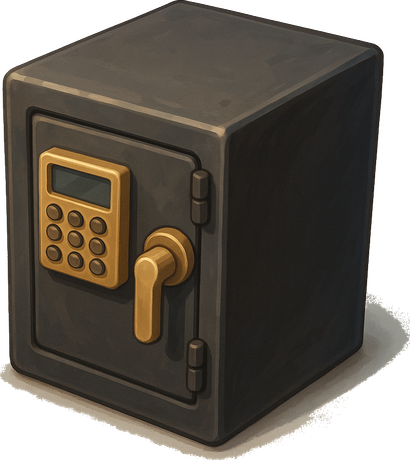
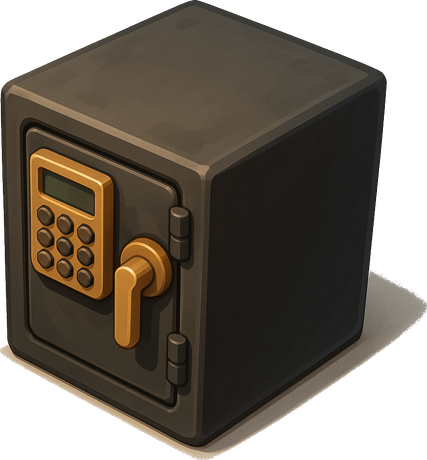
Drag-and-drop building moves; safes rotated to the house's angle
Michael: press-and-hold to move buildings, only the house immovable, safes
need one more turn.

Hold ~0.4s lifts a building with a haptic pop; valid cells glow green; drop
moves it. The Print Shop stopped being a fixed virtual pad and became a
stored position (profiles.print_shop_pad) so it can move too; raids render
the defender's shop wherever they parked it. Moves are free (arranging your
base is expression, not a purchase) but serialized per player via an
advisory-locked house_move, so two devices can't land on one cell.

Gesture coexistence on one surface: a >12px slide before the hold fires
cancels it (that's a pan); native scroll during a drag is suppressed by a
flag-guarded touchmove preventDefault since CSS touch-action can't change
mid-gesture; a 350ms post-drop guard swallows the synthesized click that
would otherwise open the sheet of the building just dropped.

Safes: round 1 landed ~15-20deg vs the house's ~35deg - exactly Michael's
'not quite even'. Round 2 asks the edit model for the steeper turn
explicitly; fronts foreshorten and tops read as diamonds now.

diff --git a/components/IsoYard.tsx b/components/IsoYard.tsx
@@ -49,10 +49,26 @@ export interface IsoCellSpec {
   glow?: boolean
   dead?: boolean
   onTap?: () => void
+  /** press-and-hold lifts this sprite for drag-and-drop */
+  movable?: boolean
 }
 
-export default function IsoYard({ cells, bg, children }:
-  { cells: IsoCellSpec[]; bg?: string; children?: ReactNode }) {
+/** stage coords → pad index, or null when off the diamond */
+export function padAt(x: number, y: number): number | null {
+  const u = (x - ORIGIN_X) / (TILE_W / 2)
+  const v = (y - ORIGIN_Y) / (TILE_H / 2)
+  const col = Math.round((u + v) / 2 - 0.5)
+  const row = Math.round((v - u) / 2 - 0.5)
+  if (col < 0 || col >= GRID || row < 0 || row >= GRID) return null
+  return row * GRID + col
+}
+
+export default function IsoYard({ cells, bg, children, onMove, validTargets }:
+  { cells: IsoCellSpec[]; bg?: string; children?: ReactNode
+    /** called after a successful drag-and-drop */
+    onMove?: (fromPad: number, toPad: number) => void
+    /** cells a lifted building may land on */
+    validTargets?: Set<number> }) {
   const wrapRef = useRef<HTMLDivElement>(null)
   const [auto, setAuto] = useState(1)       // fit-derived base scale
   const [zoom, setZoom] = useState(1)       // player zoom on top of it
@@ -130,6 +146,81 @@ export default function IsoYard({ cells, bg, children }:
     }
   }, [])
 
+  // ── DRAG-AND-DROP (Michael 2026-07-31): press-and-hold lifts a movable
+  // sprite, drag follows the finger, drop on a highlighted cell. Native
+  // scrolling is suppressed for the duration via a flag-guarded touchmove
+  // preventDefault — CSS touch-action can't change mid-gesture. ──
+  const [drag, setDrag] = useState<{ from: number; x: number; y: number; hover: number | null } | null>(null)
+  const dragRef = useRef<typeof drag>(null)
+  dragRef.current = drag
+  const holdRef = useRef<{ pad: number; x: number; y: number; timer: ReturnType<typeof setTimeout> } | null>(null)
+  const justDroppedAt = useRef(0)
+
+  const toStage = (clientX: number, clientY: number) => {
+    const el = wrapRef.current!
+    const r = el.getBoundingClientRect()
+    const s = auto * zoomRef.current
+    const spacerW = Math.max(STAGE_W * s, el.clientWidth)
+    const spacerH = Math.max(STAGE_H * s, el.clientHeight)
+    const offX = spacerW / 2 - (STAGE_W * s) / 2
+    const offY = spacerH / 2 - (STAGE_H * s) / 2
+    return {
+      x: (clientX - r.left + el.scrollLeft - offX) / s,
+      y: (clientY - r.top + el.scrollTop - offY) / s,
+    }
+  }
+
+  const beginHold = (pad: number, e: React.PointerEvent) => {
+    const { clientX, clientY } = e
+    const timer = setTimeout(() => {
+      if (!holdRef.current || holdRef.current.pad !== pad) return
+      const p = toStage(clientX, clientY)
+      setDrag({ from: pad, x: p.x, y: p.y, hover: null })
+      try { navigator.vibrate?.(30) } catch {}
+      holdRef.current = null
+    }, 420)
+    holdRef.current = { pad, x: clientX, y: clientY, timer }
+  }
+  const cancelHold = () => {
+    if (holdRef.current) { clearTimeout(holdRef.current.timer); holdRef.current = null }
+  }
+
+  useEffect(() => {
+    const el = wrapRef.current
+    if (!el) return
+    const onMoveEv = (e: PointerEvent) => {
+      // a real finger slide before the hold fires = the user is panning
+      if (holdRef.current && Math.hypot(e.clientX - holdRef.current.x, e.clientY - holdRef.current.y) > 12) cancelHold()
+      const d = dragRef.current
+      if (!d) return
+      const p = toStage(e.clientX, e.clientY)
+      setDrag({ ...d, x: p.x, y: p.y, hover: padAt(p.x, p.y) })
+    }
+    const onUp = () => {
+      cancelHold()
+      const d = dragRef.current
+      if (!d) return
+      if (d.hover != null && d.hover !== d.from && (validTargets?.has(d.hover) ?? false)) {
+        justDroppedAt.current = Date.now()
+        onMove?.(d.from, d.hover)
+      }
+      setDrag(null)
+    }
+    // suppress native pan while a building is in the air
+    const onTouchMove = (e: TouchEvent) => { if (dragRef.current) e.preventDefault() }
+    window.addEventListener('pointermove', onMoveEv)
+    window.addEventListener('pointerup', onUp)
+    window.addEventListener('pointercancel', onUp)
+    el.addEventListener('touchmove', onTouchMove, { passive: false })
+    return () => {
+      window.removeEventListener('pointermove', onMoveEv)
+      window.removeEventListener('pointerup', onUp)
+      window.removeEventListener('pointercancel', onUp)
+      el.removeEventListener('touchmove', onTouchMove)
+    }
+    // eslint-disable-next-line react-hooks/exhaustive-deps
+  }, [auto, onMove, validTargets])
+
   // center the pan when the FIT changes (first layout, rotation) — NOT on
   // player zoom, which anchors itself and must not be snapped back to center
   useEffect(() => {
@@ -172,8 +263,10 @@ export default function IsoYard({ cells, bg, children }:
                       style={{
                         transform: 'rotateX(0deg)',
                         clipPath: 'polygon(50% 0%, 100% 50%, 50% 100%, 0% 50%)',
-                        background: 'rgba(255,255,255,0.06)',
-                        borderColor: 'rgba(255,255,255,0.14)',
+                        background: drag && validTargets?.has(c.pad)
+                          ? (drag.hover === c.pad ? 'rgba(52,211,153,0.45)' : 'rgba(52,211,153,0.18)')
+                          : 'rgba(255,255,255,0.06)',
+                        borderColor: drag && validTargets?.has(c.pad) ? 'rgba(52,211,153,0.7)' : 'rgba(255,255,255,0.14)',
                       }} />
                   )}
                 </button>
@@ -191,13 +284,16 @@ export default function IsoYard({ cells, bg, children }:
               {c.img ? (
                 // eslint-disable-next-line @next/next/no-img-element
                 <img src={c.img} alt=""
-                  onClick={c.onTap}
+                  onClick={() => { if (Date.now() - justDroppedAt.current > 350) c.onTap?.() }}
+                  onPointerDown={c.movable && onMove ? (e => beginHold(c.pad, e)) : undefined}
                   className={`absolute max-w-none ${c.onTap ? 'cursor-pointer' : ''} ${c.dead ? 'grayscale opacity-40' : ''} ${c.glow ? 'iso-glow' : ''}`}
                   style={{
                     width: c.imgW ?? 120,
                     left: 0, top: TILE_H * 0.28,
                     transform: 'translate(-50%, -100%)',
+                    opacity: drag?.from === c.pad ? 0.25 : undefined,
                     filter: c.glow ? 'drop-shadow(0 0 14px rgba(52,211,153,0.9))' : 'drop-shadow(0 6px 8px rgba(0,0,0,0.35))',
+                    touchAction: c.movable && onMove ? 'none' : undefined,
                   }} />
               ) : c.emoji ? (
                 <span onClick={c.onTap}
@@ -215,6 +311,22 @@ export default function IsoYard({ cells, bg, children }:
             </div>
           )
         })}
+        {/* the airborne building follows the finger */}
+        {drag && (() => {
+          const src = cells.find(c => c.pad === drag.from)
+          if (!src?.img) return null
+          return (
+            // eslint-disable-next-line @next/next/no-img-element
+            <img src={src.img} alt="" className="absolute max-w-none pointer-events-none"
+              style={{
+                width: (src.imgW ?? 120) * 1.08,
+                left: drag.x, top: drag.y,
+                transform: 'translate(-50%, -85%)',
+                zIndex: 950,
+                filter: 'drop-shadow(0 14px 16px rgba(0,0,0,0.5)) brightness(1.08)',
+              }} />
+          )
+        })()}
         {children}
       </div>
       </div>

diff --git a/app/(game)/hq/page.tsx b/app/(game)/hq/page.tsx
@@ -24,6 +24,7 @@ interface Upgrade { to: number; done_at: string; rush_cost: number }
 interface Building { pad: number; type: string; level: number; upgrade?: Upgrade | null }
 interface Tower { level: number; banked: number; next_in_secs: number; rate: number; interval_hours: number }
 interface House {
+  print_shop_pad?: number
   hq_level: number; hq_upgrade: Upgrade | null
   buildings: Building[]; tower: Tower | null
   trophies: number; shield_until: string | null; pickups: number
@@ -169,10 +170,10 @@ export default function HqPage() {
       })
       continue
     }
-    if (pad === PRINT_SHOP_PAD) {
+    if (pad === (house?.print_shop_pad ?? PRINT_SHOP_PAD)) {
       const ready = (farm?.ready ?? 0) > 0
       cells.push({
-        pad, img: '/house/print_shop.png', imgW: 128,
+        pad, img: '/house/print_shop.png', imgW: 128, movable: true,
         glow: ready, onTap: ready ? claimFarm : undefined,
         chip: ready
           ? <span className="text-[11px] font-black px-1.5 py-0.5 rounded-md bg-amber-400 text-black animate-bounce">🧨 CLAIM {farm!.ready}</span>
@@ -186,7 +187,7 @@ export default function HqPage() {
       const banked = b.type === 'media_tower' ? (house?.tower?.banked ?? 0) : 0
       const stored = b.type === 'safe' ? (house?.safe?.stored ?? 0) : 0
       cells.push({
-        pad,
+        pad, movable: true,
         img: sp?.img(b.level), imgW: sp?.w, emoji: sp ? undefined : buildingDef(b.type)?.emoji,
         glow: banked > 0,
         onTap: () => setSheet({ pad, building: b }),
@@ -206,11 +207,31 @@ export default function HqPage() {
 
   const sparkles = SPARKLE_PADS.slice(0, house?.pickups ?? 0)
 
+  // every empty cell is a legal landing spot (not the house, not occupied)
+  const psPad = house?.print_shop_pad ?? PRINT_SHOP_PAD
+  const validTargets = new Set<number>()
+  for (let pad = 0; pad < 36; pad++) {
+    if (pad === HQ_PAD || pad === psPad || builtOn.has(pad)) continue
+    validTargets.add(pad)
+  }
+  async function moveBuilding(from: number, to: number) {
+    try {
+      const res = await fetch('/api/house', {
+        method: 'POST', headers: { 'Content-Type': 'application/json' },
+        body: JSON.stringify({ action: 'move', from_pad: from, to_pad: to }),
+      })
+      const d = await res.json()
+      if (!res.ok) say(`❌ ${d.error ?? 'Could not move'}`)
+      else { try { navigator.vibrate?.(15) } catch {} }
+    } catch { say('❌ Could not move') }
+    load()
+  }
+
   return (
     <div className="fixed inset-0 z-[60] bg-[#0d1512] text-gray-200 select-none">
       {/* the yard stops above the bottom nav — the bar stays (Michael) */}
       <div className="absolute inset-x-0 top-0" style={{ bottom: '4.5rem' }}>
-      <IsoYard cells={cells} bg="/house/yard_bg.png">
+      <IsoYard cells={cells} bg="/house/yard_bg.png" onMove={moveBuilding} validTargets={validTargets}>
         {/* sparkle pickups + their pops, in stage coordinates */}
         {sparkles.map(pad => {
           const { x, y, depth } = isoPos(pad)

diff --git a/app/api/house/route.ts b/app/api/house/route.ts
@@ -26,7 +26,7 @@ export async function GET() {
     await admin.rpc('house_settle', { p_profile_id: profile.id })
     // requireProfile's snapshot predates the settle - re-read what it changes
     const { data: fresh } = await admin.from('profiles')
-      .select('hq_level, hq_upgrading_to, hq_upgrade_done_at, house_trophies, house_shield_until, yard_swept_at, safe_fp')
+      .select('hq_level, hq_upgrading_to, hq_upgrade_done_at, house_trophies, house_shield_until, yard_swept_at, safe_fp, print_shop_pad')
       .eq('id', profile.id).single()
     const { data: buildings } = await admin
       .from('house_buildings')
@@ -46,6 +46,7 @@ export async function GET() {
       return { to, done_at: doneAt, rush_cost: rushCost(baseCost, remaining, total) }
     }
     return NextResponse.json({
+      print_shop_pad: fresh?.print_shop_pad ?? 15,
       hq_level: fresh?.hq_level ?? 1,
       hq_upgrade: (fresh?.hq_upgrading_to && fresh?.hq_upgrade_done_at)
         ? quote(fresh.hq_upgrading_to, fresh.hq_upgrade_done_at, true, hqUpgradeCost(fresh.hq_upgrading_to - 1) ?? 0)
@@ -197,6 +198,24 @@ export async function POST(req: NextRequest) {
         return NextResponse.json({ error: 'Could not withdraw' }, { status: 500 })
       }
       return NextResponse.json({ ok: true, stored: data })
+    }
+
+    if (action === 'move') {
+      const from = Number(body.from_pad), to = Number(body.to_pad)
+      if (!Number.isInteger(from) || !Number.isInteger(to)) {
+        return NextResponse.json({ error: 'from_pad and to_pad required' }, { status: 400 })
+      }
+      const { error } = await admin.rpc('house_move', {
+        p_profile_id: profile.id, p_from: from, p_to: to,
+      })
+      if (error) {
+        if (error.message.includes('MOVE_OCCUPIED')) return NextResponse.json({ error: 'That spot is taken' }, { status: 409 })
+        if (error.message.includes('MOVE_NOTHING')) return NextResponse.json({ error: 'Nothing there to move' }, { status: 400 })
+        if (error.message.includes('MOVE_INVALID')) return NextResponse.json({ error: "Can't move there" }, { status: 400 })
+        console.error('house_move failed:', error)
+        return NextResponse.json({ error: 'Could not move' }, { status: 500 })
+      }
+      return NextResponse.json({ ok: true })
     }
 
     if (action === 'rush') {

diff --git a/app/(game)/hq/raid/page.tsx b/app/(game)/hq/raid/page.tsx
@@ -11,7 +11,7 @@ import IsoYard, { IsoCellSpec, isoPos } from '@/components/IsoYard'
 // sprite. The server settled damage/loot/trophies before the first tap —
 // everything after RAID is choreography over decided numbers.
 
-interface TargetBase { baseLevel: number; padsOpen: number; buildings: Array<{ pad: number; type: string; level: number }> }
+interface TargetBase { baseLevel: number; padsOpen: number; buildings: Array<{ pad: number; type: string; level: number }>; print_shop_pad?: number }
 interface Target { id: string; username: string; party: string; level: number; base_level: number; base: TargetBase }
 interface Found { target: Target; cost: number; loot_min: number; loot_max: number }
 interface Result { damage_pct: number; loot: number; trophies: number; base: TargetBase; defender: { username: string; party: string } }

diff --git a/app/api/house/raid/route.ts b/app/api/house/raid/route.ts
@@ -21,7 +21,7 @@ async function defenderInfo(admin: any, p: { id: string; clerk_user_id: string; 
   const level = fighterLevel(p.total_battles_won ?? 0)
   if (isBot) {
     const base = botBase(p.id, level)
-    return { isBot, level, base, defense: botDefenseScore(base.baseLevel), baseLevel: base.baseLevel }
+    return { isBot, level, base: { ...base, print_shop_pad: 15 }, defense: botDefenseScore(base.baseLevel), baseLevel: base.baseLevel }
   }
   const { data: buildings } = await admin.from('house_buildings')
     .select('pad, type, level').eq('profile_id', p.id)

diff --git a/docs/AGENT_CHANNEL.md b/docs/AGENT_CHANNEL.md
@@ -3646,3 +3646,18 @@ LIKENESS FIXES awaiting picks on Desktop: CHAR-RichMan-C/D (fully divergent tech
 - All verified by montage before wiring, per the standing rule. tsc + build + 79 green. Local commit.
 
 **For Michael:** yard zooms with wheel/pinch, sidebars gone on desktop, safes sit at the house's angle, fence is just a fence.
+
+---
+
+### 2026-07-31 — Claude
+
+**Context:** Michael: press-and-hold drag-and-drop to rearrange buildings (only the house is immovable), and the safes need one more turn of rotation.
+
+**To the channel:**
+- **DRAG-AND-DROP shipped (locally).** Hold a building ~0.4s → it lifts with a haptic pop, valid landing cells glow green, drag with the finger, drop. Everything moves except the house — including the Print Shop, which **stopped being a fixed virtual pad and became a stored position** (`profiles.print_shop_pad`); raids render the defender's shop wherever they parked it, bots stay at the default.
+- **Moves are FREE** — CoC convention; arranging your base is expression, not a purchase. Still one serialized transaction per player (`house_move`, advisory-locked) so two devices can't land different buildings on the same cell between check and write. Occupied/invalid/empty-source each refuse cleanly.
+- **The gesture stack is the interesting part** — one surface now carries tap, long-press-drag, one-finger pan, two-finger pinch, and wheel zoom without stepping on each other: a >12px slide before the hold fires cancels it (that's a PAN); native scroll during a drag is suppressed by a flag-guarded `touchmove preventDefault` because **CSS `touch-action` can't change mid-gesture**; and a 350ms guard after a drop swallows the click that browsers synthesize on release, which would otherwise open the building sheet you just dropped.
+- **Safes re-rotated a second time** — round 1 landed at a shallow ~15–20° vs the house's ~35°, which is exactly what Michael saw ("not quite even with the main house"). Round 2 prompts the edit model for the steeper turn explicitly; fronts now foreshorten and tops read as diamonds. Montage-verified against the house before slicing, both rounds.
+- tsc + build + 79 green. Local commit.
+
+**For Michael:** hold any building for half a beat and drag it — green cells are legal. The house stays put. Safes sit at the house's angle now.
